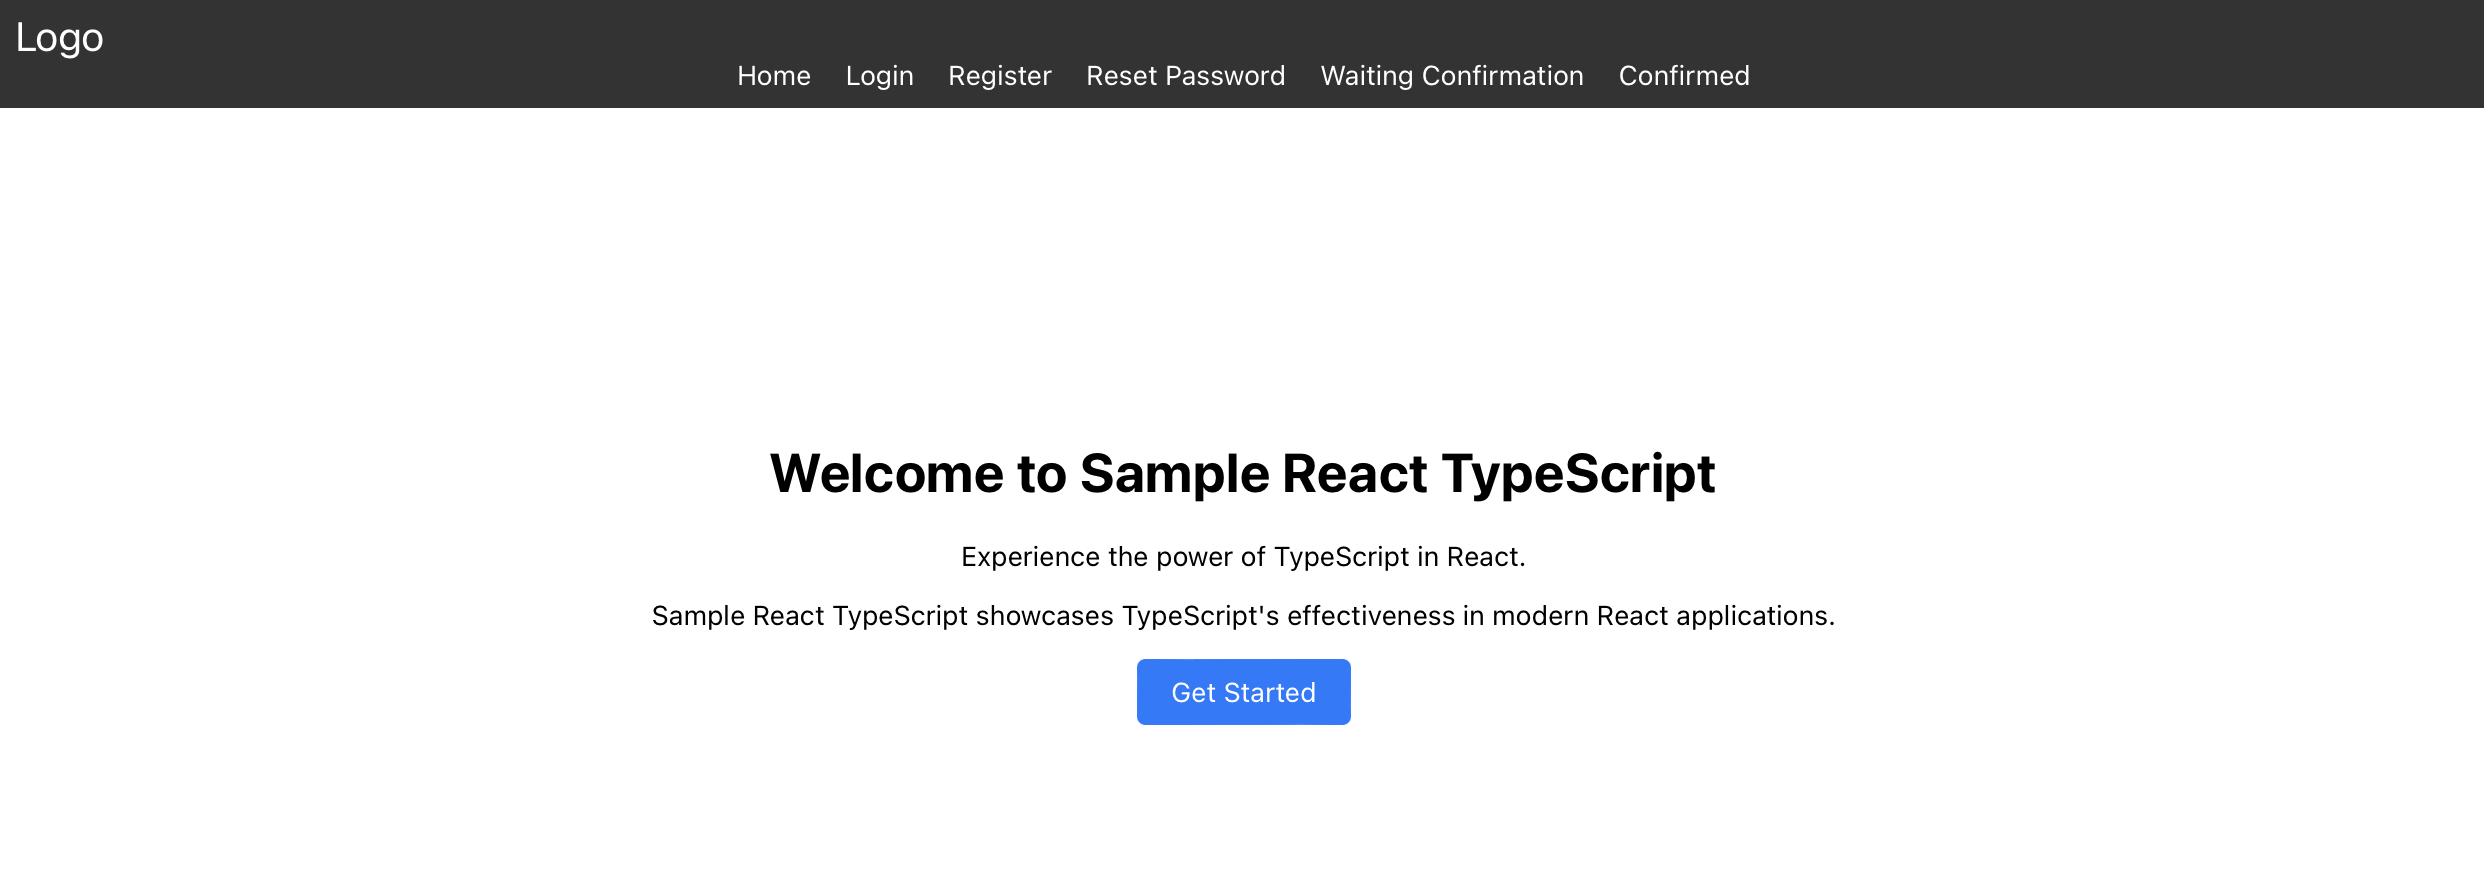
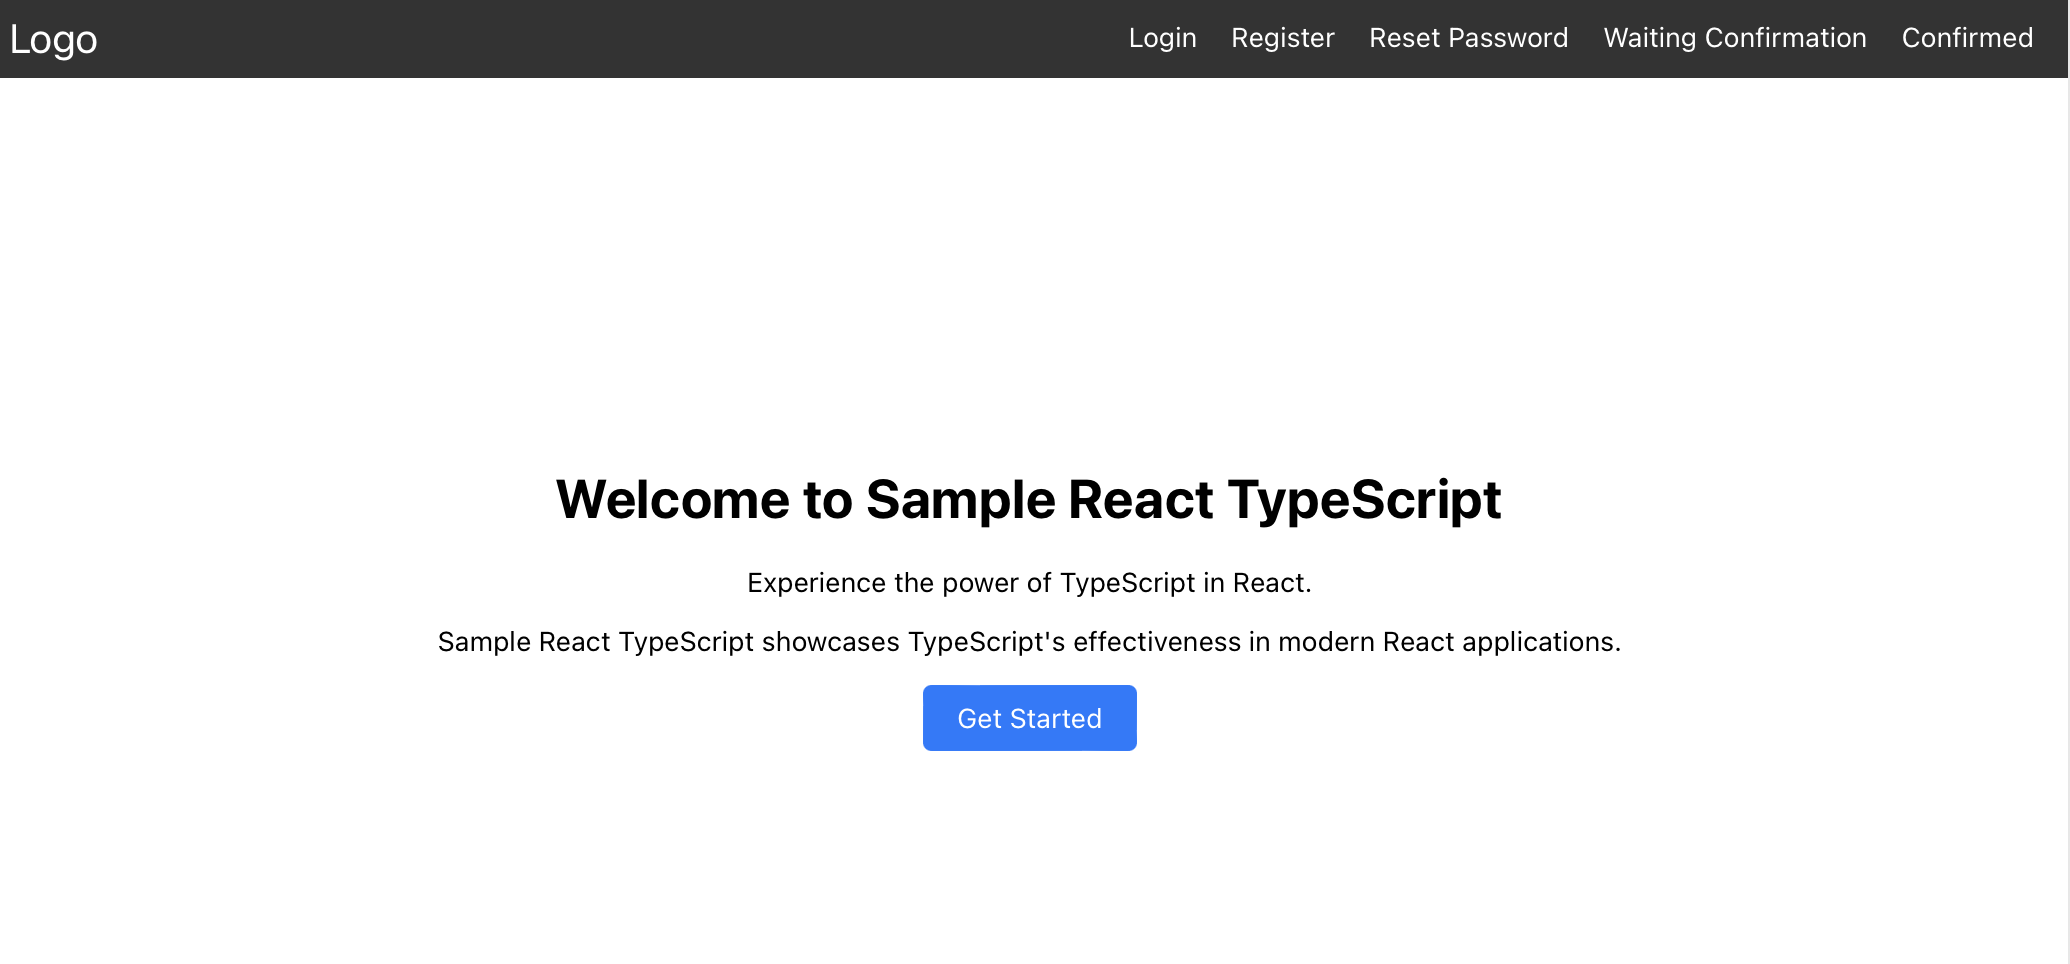
update screenshot

Changed region(s): [[0.2164, 0.4843, 0.7729, 0.8173], [0.0, 0.0303, 1.0, 0.1211]]

diff --git a/src/components/Navigation.tsx b/src/components/Navigation.tsx
@@ -1,58 +1,42 @@
-import React, { useState } from "react";
+import React from "react";
 import { Link } from "react-router-dom";
 import "./Navigation.css";
 
-const Navigation = () => {
-  const [isOpen, setIsOpen] = useState(false);
-
-  const toggleMenu = () => {
-    setIsOpen(!isOpen);
-  };
-
+const Navigation: React.FC = () => {
   return (
     <nav className="navbar">
       <div className="navbar-container">
         <Link to="/" className="logo">
           Logo
         </Link>
-        <button className="hamburger" onClick={toggleMenu}>
-          <div className="line"></div>
-          <div className="line"></div>
-          <div className="line"></div>
-        </button>
+        <ul className="nav-links">
+          <li>
+            <Link to="/login" className="nav-link">
+              Login
+            </Link>
+          </li>
+          <li>
+            <Link to="/register" className="nav-link">
+              Register
+            </Link>
+          </li>
+          <li>
+            <Link to="/reset" className="nav-link">
+              Reset Password
+            </Link>
+          </li>
+          <li>
+            <Link to="/waiting" className="nav-link">
+              Waiting Confirmation
+            </Link>
+          </li>
+          <li>
+            <Link to="/confirmed" className="nav-link">
+              Confirmed
+            </Link>
+          </li>
+        </ul>
       </div>
-      <ul className={`nav-links ${isOpen ? "open" : ""}`}>
-        <li>
-          <Link to="/" className="nav-link">
-            Home
-          </Link>
-        </li>
-        <li>
-          <Link to="/login" className="nav-link">
-            Login
-          </Link>
-        </li>
-        <li>
-          <Link to="/register" className="nav-link">
-            Register
-          </Link>
-        </li>
-        <li>
-          <Link to="/reset" className="nav-link">
-            Reset Password
-          </Link>
-        </li>
-        <li>
-          <Link to="/waiting" className="nav-link">
-            Waiting Confirmation
-          </Link>
-        </li>
-        <li>
-          <Link to="/confirmed" className="nav-link">
-            Confirmed
-          </Link>
-        </li>
-      </ul>
     </nav>
   );
 };

diff --git a/src/App.tsx b/src/App.tsx
@@ -10,6 +10,7 @@ import Navigation from "./components/Navigation";
 import Footer from "./components/Footer";
 import ConfirmationPage from "./components/ConfirmationPage";
 import EmailConfirmationPage from "./components/EmailConfirmationPage";
+
 const App: React.FC = () => {
   return (
     <div>

diff --git a/README.md b/README.md
@@ -13,7 +13,6 @@ My React Application is a web application built with React that provides various
 - **Waiting Confirmation**: Informs users to check their email for confirmation.
 - **Confirmation**: Displays a confirmation message after successful registration.
 
-
 ## Installation
 
 ### Using Docker Compose
@@ -33,6 +32,7 @@ This command will build the Docker image and start the container. The applicatio
    ```shell
    docker compose down
    ```
+
 ### Using Dockerfile
 
 1. Clone this repository to your local machine.
